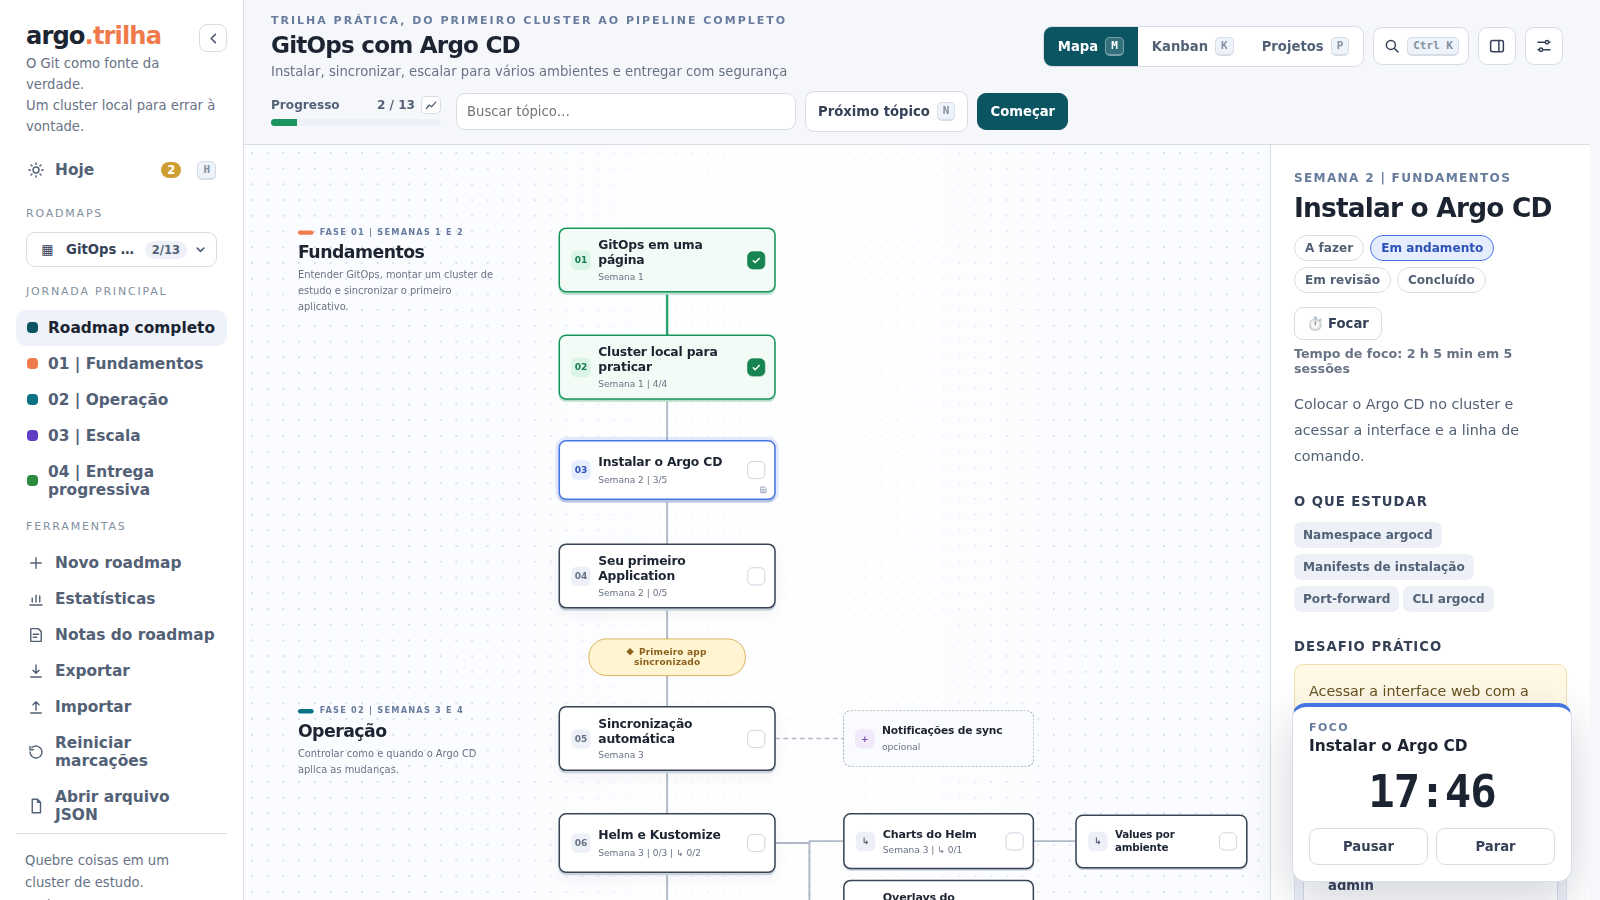
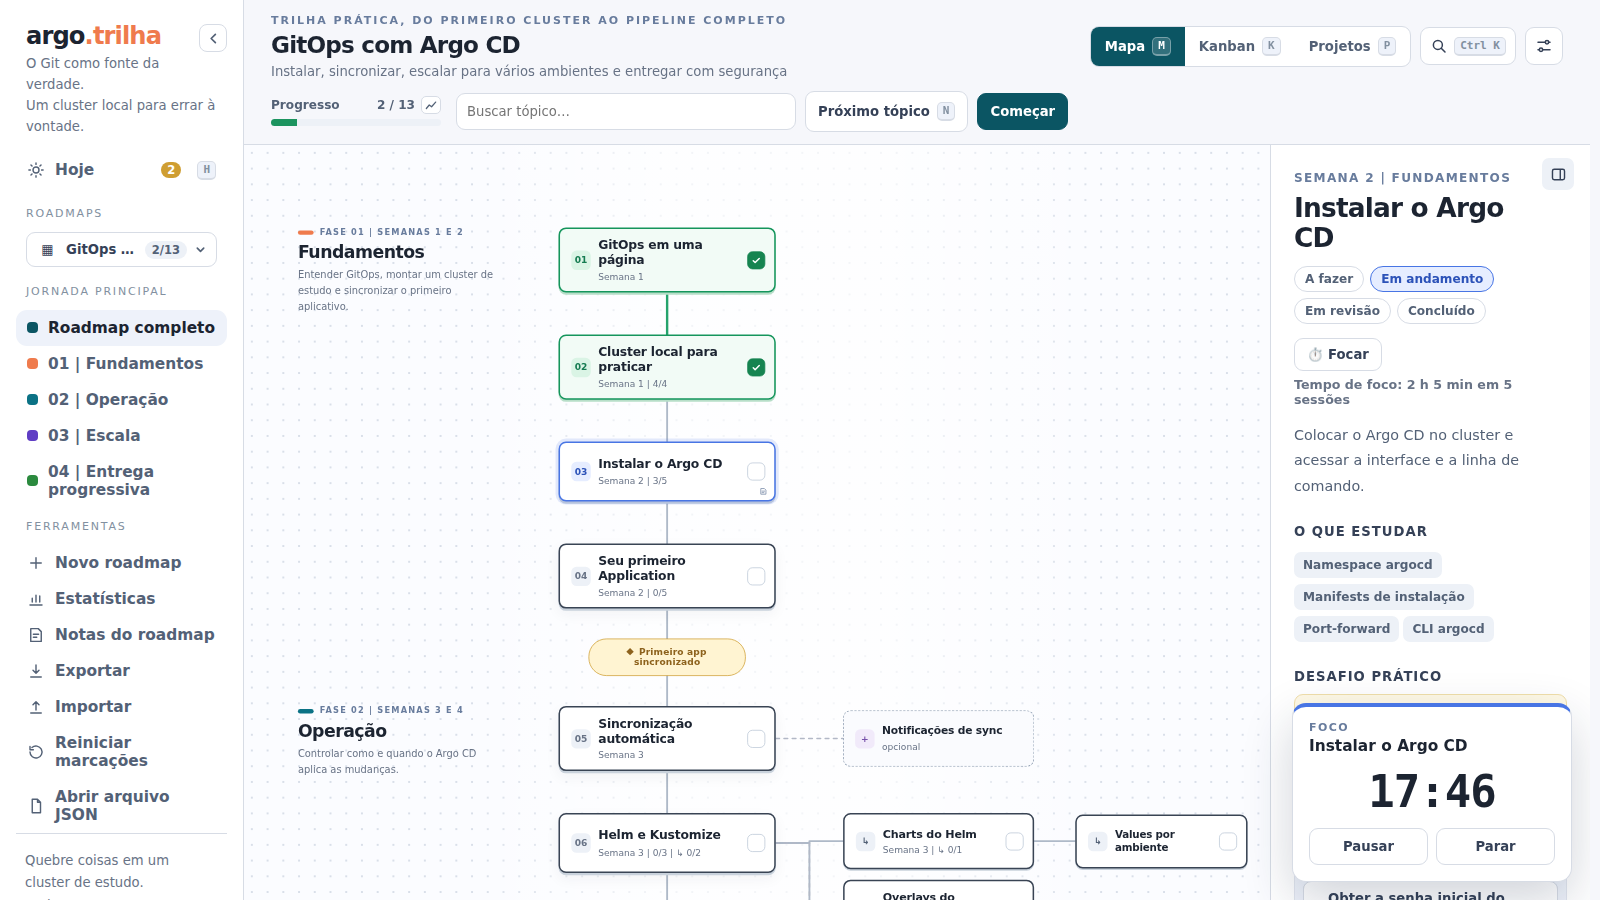
fix: the details panel opens on a topic and closes from its own button
The toggle next to the settings is gone. The details panel now stays
closed until you pick a topic or project (or press Next topic), and its
own button in the corner (or Esc) closes it. On wide screens it is a
column next to the map only while open, so the map has the whole width
the rest of the time.

The top bar keeps two rows unless the workspace has about 1550 px (from
1800 px with the panel closed, 2140 px with it open), so the title is
never squeezed and the settings button never falls off. Media re-recorded.

diff --git a/src/style.css b/src/style.css
@@ -146,7 +146,8 @@ html[data-side=collapsed] #phaseNav .nav-dot{width:26px;height:26px;border-radiu
 .nav-btn{width:100%;display:flex;align-items:center;gap:10px;text-align:left;padding:9px 11px;border:0;background:transparent;border-radius:11px;color:var(--ink3);font-weight:680}
 .nav-btn:hover,.nav-btn.active{background:var(--surface);color:var(--ink)}.nav-dot{width:11px;height:11px;border-radius:4px;background:#ccc;flex:none}
 .aside-bottom{margin-top:0;padding:16px 9px 0;color:var(--dim);font-size:calc(12px*var(--fs));line-height:1.7;border-top:1px solid var(--line)}
-.workspace{min-width:0}.toolbar{position:sticky;top:0;z-index:4;background:var(--toolbar-bg);backdrop-filter:blur(12px);border-bottom:1px solid var(--line);padding:14px 27px 12px;display:grid;grid-template-columns:minmax(0,1fr) auto;grid-template-areas:"title actions" "controls controls";gap:12px 16px;align-items:center}.top-left{grid-area:title}.tb-actions{grid-area:actions;display:flex;gap:9px;align-items:center;position:relative}/* one row only when the workspace really has the room: the details panel takes a column from 1600 px on */@media(min-width:1560px) and (max-width:1599px),(min-width:1960px){.toolbar{grid-template-columns:minmax(200px,1fr) max-content max-content;grid-template-areas:"title controls actions"}.controls{flex-wrap:nowrap}}@media(min-width:1600px){html[data-detail=collapsed] .toolbar{grid-template-columns:minmax(200px,1fr) max-content max-content;grid-template-areas:"title controls actions"}html[data-detail=collapsed] .controls{flex-wrap:nowrap}}
+.workspace{min-width:0}.toolbar{position:sticky;top:0;z-index:4;background:var(--toolbar-bg);backdrop-filter:blur(12px);border-bottom:1px solid var(--line);padding:14px 27px 12px;display:grid;grid-template-columns:minmax(0,1fr) auto;grid-template-areas:"title actions" "controls controls";gap:12px 16px;align-items:center}.top-left{grid-area:title}.tb-actions{grid-area:actions;display:flex;gap:9px;align-items:center;position:relative}/* one row only when the workspace really has the room (about 1550 px): from 1800 px with the details panel closed,
+   from 2140 px with it open as a column */@media(min-width:2140px){.toolbar{grid-template-columns:minmax(200px,1fr) max-content max-content;grid-template-areas:"title controls actions"}.controls{flex-wrap:nowrap}}@media(min-width:1800px){html:not(.detail-open) .toolbar{grid-template-columns:minmax(200px,1fr) max-content max-content;grid-template-areas:"title controls actions"}html:not(.detail-open) .controls{flex-wrap:nowrap}}
 .top-left{min-width:0}.eyebrow{font-size:calc(10px*var(--fs));font-weight:800;letter-spacing:2px;color:var(--eyebrow);text-transform:uppercase}.toolbar h1{font-size:calc(21px*var(--fs));line-height:1.15;letter-spacing:-.8px;margin:5px 0}.toolbar p{font-size:calc(12px*var(--fs));color:var(--dim);margin:0}
 .controls{grid-area:controls;display:flex;gap:9px;align-items:center;flex-wrap:wrap}.primary,.secondary{padding:10px 12px;border-radius:9px;font-size:calc(12px*var(--fs));font-weight:750;white-space:nowrap}.primary{border:1px solid var(--accent);background:var(--accent);color:white}.primary:hover{filter:brightness(.82)}.secondary{background:var(--paper);border:1px solid var(--line);color:var(--ink2)}.secondary:hover{background:var(--surface)}
 :root[data-theme="dark"] .primary{border-color:rgba(255,255,255,.2)}:root[data-theme="dark"] .primary:hover{filter:brightness(1.25)}
@@ -393,13 +394,13 @@ body.stats-on .stats{display:block}body.stats-on .toolbar,body.stats-on .bodylin
 @media(max-width:800px){.st-rms{grid-template-columns:1fr}.st-cards{grid-template-columns:1fr 1fr}.st-value{font-size:calc(23px*var(--fs))}}
 @media print{.stats{display:none!important}}
 @media(min-width:801px){.hm{width:100%;height:auto}}
-/* the details panel folds away on a wide screen too: it then opens over the content, like on smaller ones */
-@media(min-width:1600px){html[data-detail=collapsed] .bodyline{--dw:clamp(280px,var(--detail-w,380px),60vw);grid-template-columns:minmax(0,1fr)}html[data-detail=collapsed] .detail-grip{display:none}html[data-detail=collapsed] .detail-grip.open{display:block;position:fixed;top:0;bottom:0;right:calc(min(var(--dw),92vw) - 4px);z-index:9}html[data-detail=collapsed] .scrim.open{display:block;position:fixed;inset:0;z-index:7;background:rgba(0,0,0,.4)}html[data-detail=collapsed] .detail{position:fixed;top:0;right:0;bottom:0;z-index:8;width:min(var(--dw),92vw);height:100vh;box-shadow:-14px 0 48px var(--drawer-shadow);transform:translateX(105%);transition:transform .2s}html[data-detail=collapsed] .detail.open{transform:translateX(0)}html[data-detail=collapsed] .detail-close{display:block;position:absolute;top:13px;right:16px;border:0;background:var(--chip);color:var(--ink2);border-radius:6px;padding:7px 10px;font-size:calc(17px*var(--fs))}html[data-detail=collapsed] .detail h2{padding-right:18px}}
-@media(max-width:1599px){#detailToggle{display:none}}
-#detailToggle[aria-pressed=true]{background:var(--surface);color:var(--ink)}
 /* the demo notice: a card in the sidebar (the page footer on phones), hidden for 30 days on request */
 .demo-note{margin:12px 0 10px;padding:11px 12px;border:1px solid var(--line);border-radius:11px;background:var(--surface);font-size:calc(12px*var(--fs));line-height:1.5;color:var(--ink2)}
 .demo-note p{margin:4px 0 6px}.demo-note a{font-weight:750}.dn-head{display:flex;align-items:center;justify-content:space-between;gap:8px}.dn-head b{font-size:calc(11px*var(--fs));text-transform:uppercase;letter-spacing:1px;color:var(--eyebrow)}
 .dn-x{width:24px;height:24px;border:0;border-radius:6px;background:transparent;color:var(--ink3);font-size:16px;line-height:1;padding:0}.dn-x:hover{background:var(--chip);color:var(--ink)}
 .dn-foot{display:none}html[data-side=collapsed] .dn-side{display:none}
 @media(max-width:800px){.dn-side{display:none}.dn-foot{display:block;max-width:440px;margin:0 auto 14px;text-align:left}}
+/* the details panel is closed until you pick a topic or project; on a wide screen it is then a column, closed by
+   its own button (or Esc), and the map takes the whole width again */
+@media(min-width:1600px){html:not(.detail-open) .bodyline{grid-template-columns:minmax(0,1fr)}html:not(.detail-open) .detail,html:not(.detail-open) .detail-grip{display:none}.detail-close{display:grid;place-items:center;position:absolute;top:13px;right:16px;width:32px;height:32px;padding:0;border:0;border-radius:7px;background:var(--chip);color:var(--ink2)}.detail-close:hover{background:var(--surface);color:var(--ink)}.detail h2{padding-right:30px}}
+@media(max-width:1599px){.detail-close{display:grid;place-items:center;width:34px;height:34px;padding:0}}

diff --git a/index.html b/index.html
@@ -11,7 +11,7 @@
   <link rel="apple-touch-icon" href="src/icons/apple-touch-icon.png">
   <meta name="mobile-web-app-capable" content="yes">
   <meta name="apple-mobile-web-app-title" content="Roadkit">
-  <script>try{var m=localStorage.getItem('roadkit:v1:theme'),s=m==='dark'||(m!=='light'&&matchMedia('(prefers-color-scheme: dark)').matches)?'dark':'light',p=localStorage.getItem('roadkit:v1:palette-'+s),k={light:['light','mist','paper'],dark:['night','graphite','plum','black']}[s];document.documentElement.dataset.theme=s;document.documentElement.dataset.palette=k.indexOf(p)>=0?p:k[0];var f={small:.95,normal:1.1,large:1.25,xlarge:1.4}[localStorage.getItem('roadkit:v1:fs')];if(f)document.documentElement.style.setProperty('--fs',f);if(localStorage.getItem('roadkit:v1:side')==='collapsed')document.documentElement.dataset.side='collapsed';if(localStorage.getItem('roadkit:v1:detail')==='collapsed')document.documentElement.dataset.detail='collapsed';var w=parseInt(localStorage.getItem('roadkit:v1:sidew'),10);if(w)document.documentElement.style.setProperty('--side-open',Math.min(Math.max(w,200),420)+'px')}catch(e){}</script>
+  <script>try{var m=localStorage.getItem('roadkit:v1:theme'),s=m==='dark'||(m!=='light'&&matchMedia('(prefers-color-scheme: dark)').matches)?'dark':'light',p=localStorage.getItem('roadkit:v1:palette-'+s),k={light:['light','mist','paper'],dark:['night','graphite','plum','black']}[s];document.documentElement.dataset.theme=s;document.documentElement.dataset.palette=k.indexOf(p)>=0?p:k[0];var f={small:.95,normal:1.1,large:1.25,xlarge:1.4}[localStorage.getItem('roadkit:v1:fs')];if(f)document.documentElement.style.setProperty('--fs',f);if(localStorage.getItem('roadkit:v1:side')==='collapsed')document.documentElement.dataset.side='collapsed';var w=parseInt(localStorage.getItem('roadkit:v1:sidew'),10);if(w)document.documentElement.style.setProperty('--side-open',Math.min(Math.max(w,200),420)+'px')}catch(e){}</script>
   <link rel="stylesheet" href="src/style.css">
 </head>
 <body>
@@ -96,9 +96,6 @@
         <button class="icon-btn" id="paletteBtn" type="button" data-i18n-aria="paletteOpen" data-i18n-title="paletteOpen">
           <svg viewBox="0 0 24 24" width="18" height="18" aria-hidden="true" fill="none" stroke="currentColor" stroke-width="2" stroke-linecap="round"><circle cx="10.5" cy="10.5" r="6"/><path d="M15 15l5 5"/></svg><kbd class="kbd-hint" id="paletteKbd" aria-hidden="true">Ctrl K</kbd>
         </button>
-        <button class="icon-btn" id="detailToggle" type="button" aria-pressed="false" aria-controls="detail" data-i18n-aria="detailHide" data-i18n-title="detailHide">
-          <svg viewBox="0 0 24 24" width="18" height="18" aria-hidden="true" fill="none" stroke="currentColor" stroke-width="2" stroke-linejoin="round"><rect x="3.5" y="4.5" width="17" height="15" rx="2.5"/><path d="M14.5 4.5v15"/></svg>
-        </button>
         <button class="icon-btn" id="settingsBtn" type="button" aria-haspopup="true" aria-expanded="false" aria-controls="settings" data-i18n-aria="settings" data-i18n-title="settings">
           <svg viewBox="0 0 24 24" width="18" height="18" aria-hidden="true"><path d="M4 7h10M18 7h2M4 17h2M10 17h10" stroke="currentColor" stroke-width="2" stroke-linecap="round" fill="none"/><circle cx="16" cy="7" r="2.3" fill="none" stroke="currentColor" stroke-width="2"/><circle cx="8" cy="17" r="2.3" fill="none" stroke="currentColor" stroke-width="2"/></svg>
         </button>
@@ -181,7 +178,7 @@
       <section class="projects-wrap" id="projects"></section>
       <div class="detail-grip" id="detailGrip" role="separator" aria-orientation="vertical" tabindex="0" data-i18n-aria="resizeDetail"></div>
       <section class="detail" id="detail" aria-live="polite">
-        <button class="detail-close" id="detailClose" data-i18n-aria="close">×</button>
+        <button class="detail-close" id="detailClose" type="button" data-i18n-aria="close" data-i18n-title="close"><svg viewBox="0 0 24 24" width="17" height="17" aria-hidden="true" fill="none" stroke="currentColor" stroke-width="2" stroke-linejoin="round"><rect x="3.5" y="4.5" width="17" height="15" rx="2.5"/><path d="M14.5 4.5v15"/></svg></button>
         <div id="detailContent" class="detail-placeholder"></div>
       </section>
     </section>

diff --git a/src/app.js b/src/app.js
@@ -1992,6 +1992,9 @@ function renderProjectDetail(p) {
 
 /* ---------- interactions ---------- */
 function setDrawer(open) {
+  const was = document.documentElement.classList.contains('detail-open');
+  document.documentElement.classList.toggle('detail-open', open);   // on a wide screen the panel is a column, shown only while open
+  if (was !== open && matchMedia('(min-width: 1600px)').matches) metricsChanged();
   $('detail').classList.toggle('open', open);
   $('scrim').classList.toggle('open', open);
   $('detailGrip').classList.toggle('open', open);
@@ -2065,21 +2068,6 @@ function wireDetailResize() {
   grip.addEventListener('pointerup', stop);
   grip.addEventListener('pointercancel', stop);
   grip.addEventListener('dblclick', () => { root.style.removeProperty('--detail-w'); store.set(DETAIL_KEY, ''); done(); });
-  /* fold the panel away on a wide screen (the button next to the settings): the map gets the room, and a topic
-     you pick opens its details over the content, as on smaller screens */
-  const toggle = $('detailToggle');
-  const paintToggle = () => {
-    const folded = root.dataset.detail === 'collapsed', label = (folded ? S.L.detailShow : S.L.detailHide) ?? '';
-    toggle.setAttribute('aria-pressed', String(folded)); toggle.title = label; toggle.setAttribute('aria-label', label);
-  };
-  toggle.addEventListener('click', () => {
-    const fold = root.dataset.detail !== 'collapsed';
-    if (fold) root.dataset.detail = 'collapsed'; else delete root.dataset.detail;
-    store.set('roadkit:v1:detail', fold ? 'collapsed' : 'open');
-    setDrawer(false); paintToggle(); metricsChanged();
-  });
-  addEventListener('labelschange', paintToggle);
-  paintToggle();
   grip.addEventListener('keydown', e => {
     const d = { ArrowLeft: 24, ArrowRight: -24 }[e.key];
     if (!d) return;

diff --git a/docs/usando-a-interface.md b/docs/usando-a-interface.md
@@ -6,9 +6,9 @@
 
 ## O que tem na tela
 
-Do lado esquerdo fica a barra lateral: o logo, o botão **Hoje**, o seletor de roadmaps, as fases do roadmap aberto e as ferramentas (novo roadmap, estatísticas, notas, exportar, importar, reiniciar, abrir arquivo). No topo do conteúdo estão o título, a barra de progresso (com um pequeno gráfico que abre as estatísticas desse roadmap), a busca do roadmap, os botões **Próximo tópico** e **Começar**, o seletor **Mapa / Kanban / Projetos**, a busca geral, o botão do painel e os ajustes. Do lado direito fica o painel de detalhes do tópico escolhido.
+Do lado esquerdo fica a barra lateral: o logo, o botão **Hoje**, o seletor de roadmaps, as fases do roadmap aberto e as ferramentas (novo roadmap, estatísticas, notas, exportar, importar, reiniciar, abrir arquivo). No topo do conteúdo estão o título, a barra de progresso (com um pequeno gráfico que abre as estatísticas desse roadmap), a busca do roadmap, os botões **Próximo tópico** e **Começar**, o seletor **Mapa / Kanban / Projetos**, a busca geral e os ajustes. Do lado direito abre o painel de detalhes, quando você escolhe um tópico ou um projeto.
 
-As duas barras laterais dá para arrastar pela borda para ficarem mais largas ou mais estreitas, e um duplo clique volta ao tamanho padrão. A da esquerda recolhe para uma faixa de ícones pelo botão `‹` ao lado do logo. A da direita, em telas largas, some pelo botão de painel ao lado dos ajustes: o mapa ganha o espaço, e o tópico que você escolher abre por cima, como numa tela menor. Com as duas recolhidas, sobra só o roadmap no centro. O que você escolher fica salvo no navegador.
+As duas barras laterais dá para arrastar pela borda para ficarem mais largas ou mais estreitas, e um duplo clique volta ao tamanho padrão. A da esquerda recolhe para uma faixa de ícones pelo botão `‹` ao lado do logo. O painel da direita fica fechado até você clicar num tópico ou projeto (ou em **Próximo tópico**) e fecha pelo botão no canto dele ou com `Esc`. Em telas largas ele vira uma coluna ao lado do mapa; nas menores, abre por cima, como uma gaveta. Com a barra da esquerda recolhida e o painel fechado, sobra só o roadmap no centro. O que você escolher fica salvo no navegador.
 
 ## Aonde ir daqui
 

diff --git a/docs/en/using-the-interface.md b/docs/en/using-the-interface.md
@@ -6,9 +6,9 @@
 
 ## What is on the screen
 
-On the left is the sidebar: the logo, the **Today** button, the roadmap picker, the phases of the open roadmap and the tools (new roadmap, statistics, notes, export, import, reset, open file). At the top of the content are the title, the progress bar (with a small chart that opens that roadmap statistics), the roadmap search, the **Next topic** and **Start** buttons, the **Map / Kanban / Projects** switch, the global search, the panel button and the settings. On the right is the details panel for the selected topic.
+On the left is the sidebar: the logo, the **Today** button, the roadmap picker, the phases of the open roadmap and the tools (new roadmap, statistics, notes, export, import, reset, open file). At the top of the content are the title, the progress bar (with a small chart that opens that roadmap statistics), the roadmap search, the **Next topic** and **Start** buttons, the **Map / Kanban / Projects** switch, the global search and the settings. On the right, the details panel opens when you pick a topic or a project.
 
-Both sidebars can be dragged by their edge to make them wider or narrower, and a double click brings them back to the default size. The left one collapses into a strip of icons with the `‹` button next to the logo. The right one, on wide screens, folds away with the panel button next to the settings: the map gets the room, and a topic you pick opens on top, as on a smaller screen. With both folded, only the roadmap is left in the middle. Whatever you choose is saved in the browser.
+Both sidebars can be dragged by their edge to make them wider or narrower, and a double click brings them back to the default size. The left one collapses into a strip of icons with the `‹` button next to the logo. The right panel stays closed until you click a topic or project (or **Next topic**), and closes with the button in its corner or `Esc`. On wide screens it becomes a column next to the map; on smaller ones it opens on top, like a drawer. With the left sidebar folded and the panel closed, only the roadmap is left in the middle. Whatever you choose is saved in the browser.
 
 ## Where to go next
 

diff --git a/CHANGELOG.md b/CHANGELOG.md
@@ -7,8 +7,8 @@ Each GitHub release also lists the commits since the previous version on its own
 ## [1.11.0] - Unreleased
 
 ### Interface
-- The details panel can fold away on wide screens too, with a button next to the settings. The map takes the room, and a topic you pick opens on top, as on smaller screens. With both sidebars folded, only the roadmap is left in the middle.
-- The top bar only goes to a single row when the workspace really has the room, so the title no longer gets squeezed between 1560 and 1960 px with the details panel open.
+- The details panel stays closed until you pick a topic or project (or press **Next topic**), and closes with its own button in the corner or `Esc`. On wide screens it is a column next to the map only while it is open, so the map gets the whole width the rest of the time. With the left sidebar folded too, only the roadmap is left in the middle.
+- The top bar only goes to a single row when the workspace really has the room (from 1800 px with the panel closed, 2140 px with it open), so the title no longer gets squeezed and the settings button never falls off the edge.
 - The line that shows while you resize the details panel no longer paints over the top bar.
 - In the demo, the notice about progress staying in the browser became a card in the sidebar (the page footer on phones) instead of a bar over the app. It can be hidden for 30 days, and it also says what needs the server. Statistics explain why they are empty there.
 
